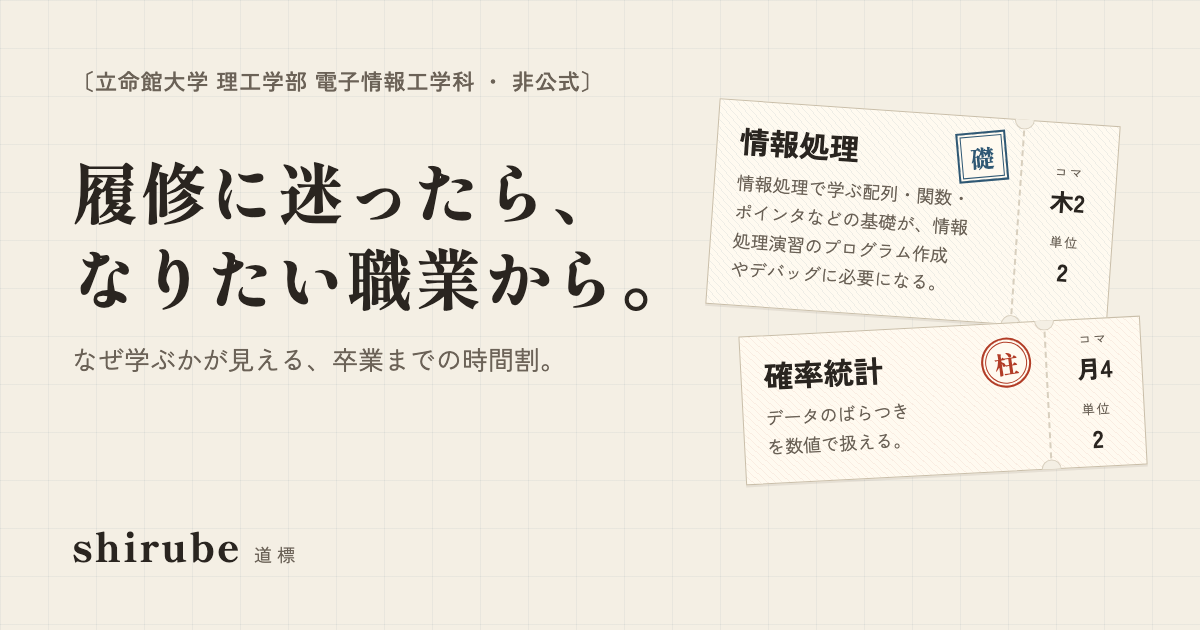
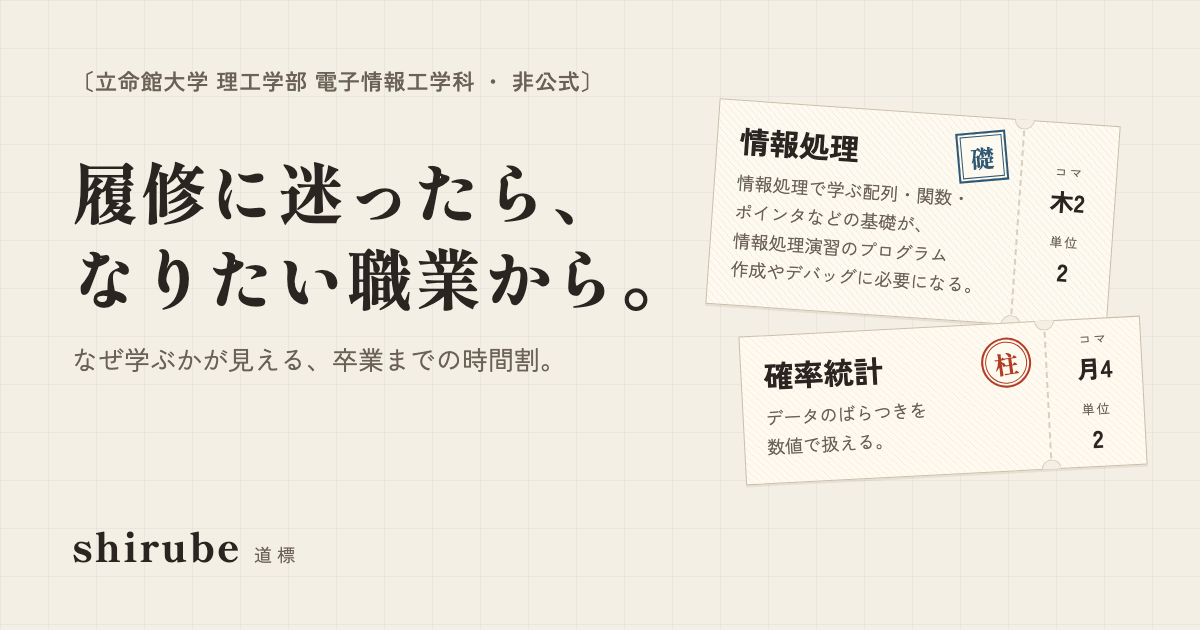
トップと共有カードの切符の理由を、語の切れ目でだけ折る
text-wrap: balance だけでは、柱の理由が「データのばらつき / を数値で扱える。」と、助詞の
「を」から 2 行目が始まった。どの字のあいだでも折れるので、行の長さをそろえても語の途中に
切れ目が来る。

トップの切符の理由を、授業名と同じくサーバーで語に分けて(wordsOf)Phrases で語の切れ目で
だけ折り、balance で行の長さをそろえる。「データのばらつきを / 数値で扱える。」になる。
共有カードは同じ語の切れ目に <wbr /> を入れて keep-all にした。カードは手で書く HTML なので、
理由の語の切れ目がトップの wordsOf と同じかをテストで確かめる。

ADR 0047 の追記で、共有カードの切符を「下げた」と書いていたが、奥の切符は 132px から 112px に
上げ、手前の切符を 296px から 326px に下げていたので直した。共有カードを撮り直した。

Changed region(s): [[0.6167, 0.3317, 0.8017, 0.4825], [0.6167, 0.6937, 0.74, 0.7238], [0.74, 0.6333, 0.7708, 0.6635]]

diff --git a/frontend/src/lib/site.test.ts b/frontend/src/lib/site.test.ts
@@ -5,6 +5,7 @@ import { describe, expect, it } from "vitest";
 import { SAMPLE_TICKETS } from "@/lib/sample-tickets";
 import { CATCHPHRASE, SUBHEAD } from "@/lib/site";
 import { stampTilt } from "@/lib/ticket-face";
+import { wordsOf } from "@/lib/words";
 
 const FRONTEND = new URL("../../", import.meta.url);
 
@@ -22,7 +23,7 @@ const tickets = [
   ...card.matchAll(/<article class="ticket [^"]*">([\s\S]*?)<\/article>/g),
 ].map(([, ticket]) => ({
   name: field(ticket, /<p class="name">([^<]+)<\/p>/),
-  reason: field(ticket, /<p class="reason">([^<]+)<\/p>/),
+  reason: field(ticket, /<p class="reason">([\s\S]*?)<\/p>/)?.split("<wbr />"),
   slots: field(ticket, /<dt>コマ<\/dt>\s*<dd>([^<]+)<\/dd>/),
   credits: field(ticket, /<dt>単位<\/dt>\s*<dd>([^<]+)<\/dd>/),
 }));
@@ -37,11 +38,11 @@ describe("the share card", () => {
     expect(alt).toContain(CATCHPHRASE.join("") + SUBHEAD);
   });
 
-  it("shows the same tickets as the top page", () => {
+  it("shows the same tickets as the top page, with the reasons broken at the same phrases", () => {
     expect(tickets).toEqual(
       SAMPLE_TICKETS.map((course) => ({
         name: course.name,
-        reason: course.reason,
+        reason: wordsOf(course.reason),
         slots: course.slot,
         credits: String(course.credits),
       })),

diff --git a/frontend/brand/opengraph-image.html b/frontend/brand/opengraph-image.html
@@ -90,6 +90,8 @@
         font-size: 18px;
         line-height: 1.6;
         color: #6b6257;
+        word-break: keep-all;
+        overflow-wrap: anywhere;
         text-wrap: balance;
       }
       .ticket .stub {
@@ -201,7 +203,7 @@
       <div class="body">
         <p class="name">情報処理</p>
         <p class="reason">
-          情報処理で学ぶ配列・関数・ポインタなどの基礎が、情報処理演習のプログラム作成やデバッグに必要になる。
+          情報処理で<wbr />学ぶ<wbr />配列・<wbr />関数・<wbr />ポインタ<wbr />などの<wbr />基礎が、<wbr />情報処理<wbr />演習の<wbr />プログラム<wbr />作成や<wbr />デバッグに<wbr />必要に<wbr />なる。
         </p>
       </div>
       <dl class="stub">
@@ -219,7 +221,9 @@
     <article class="ticket core front">
       <div class="body">
         <p class="name">確率統計</p>
-        <p class="reason">データのばらつきを数値で扱える。</p>
+        <p class="reason">
+          データの<wbr />ばらつきを<wbr />数値で<wbr />扱える。
+        </p>
       </div>
       <dl class="stub">
         <div>

diff --git a/frontend/src/components/hero-tickets.tsx b/frontend/src/components/hero-tickets.tsx
@@ -48,7 +48,7 @@ export function HeroTickets() {
                       <Phrases parts={wordsOf(course.name)} />
                     </p>
                     <p className="text-xs leading-relaxed text-balance text-sub md:text-fine">
-                      {course.reason}
+                      <Phrases parts={wordsOf(course.reason)} />
                     </p>
                   </div>
                   <dl
